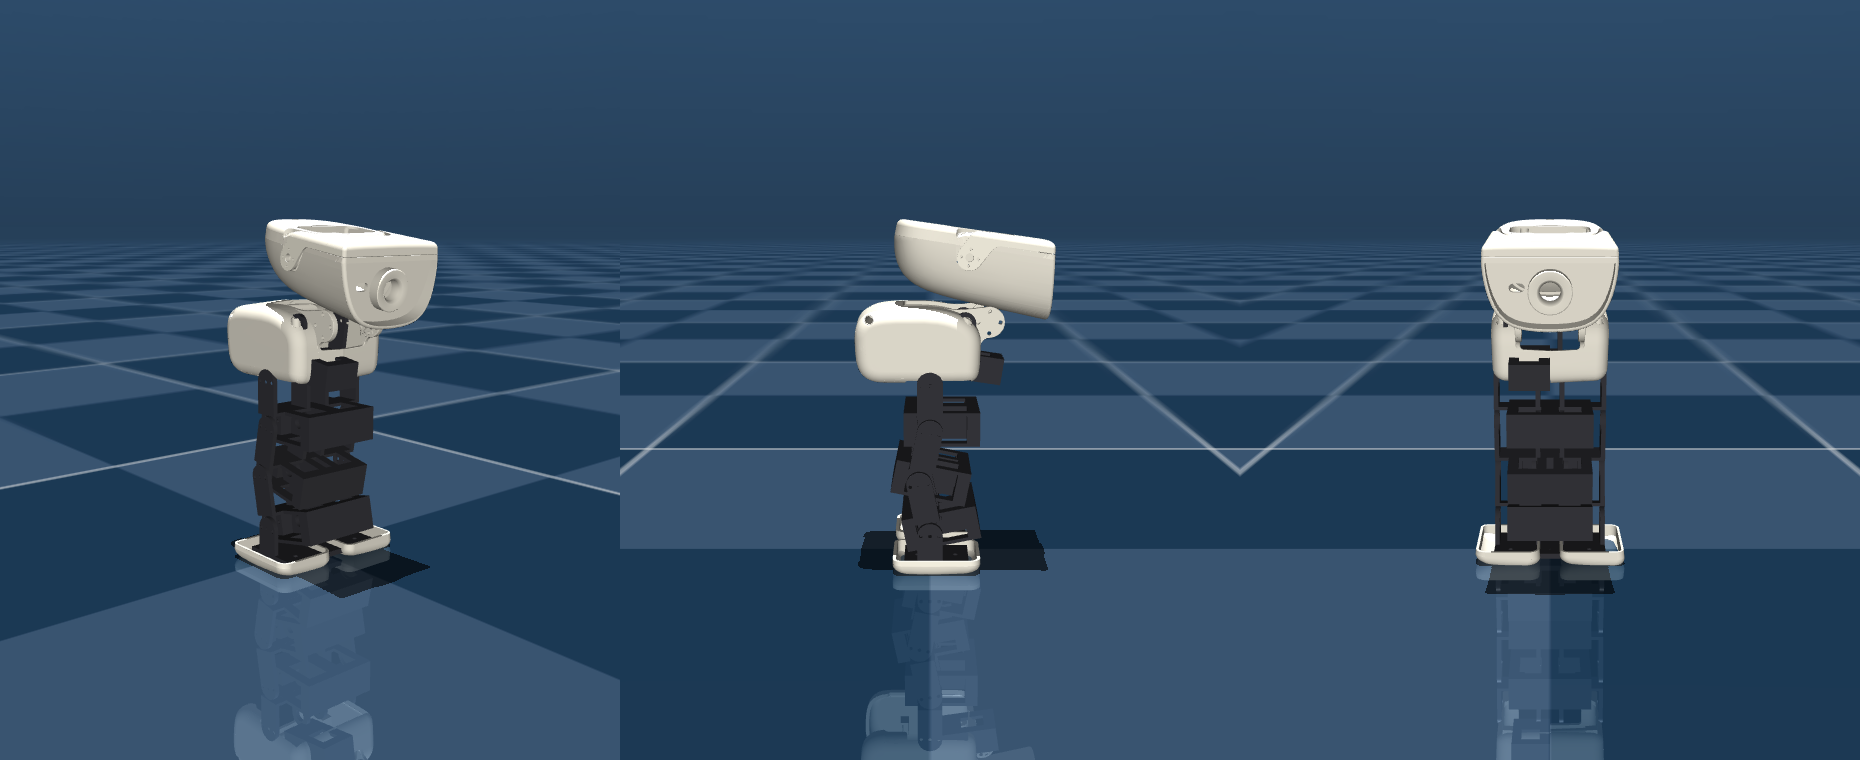
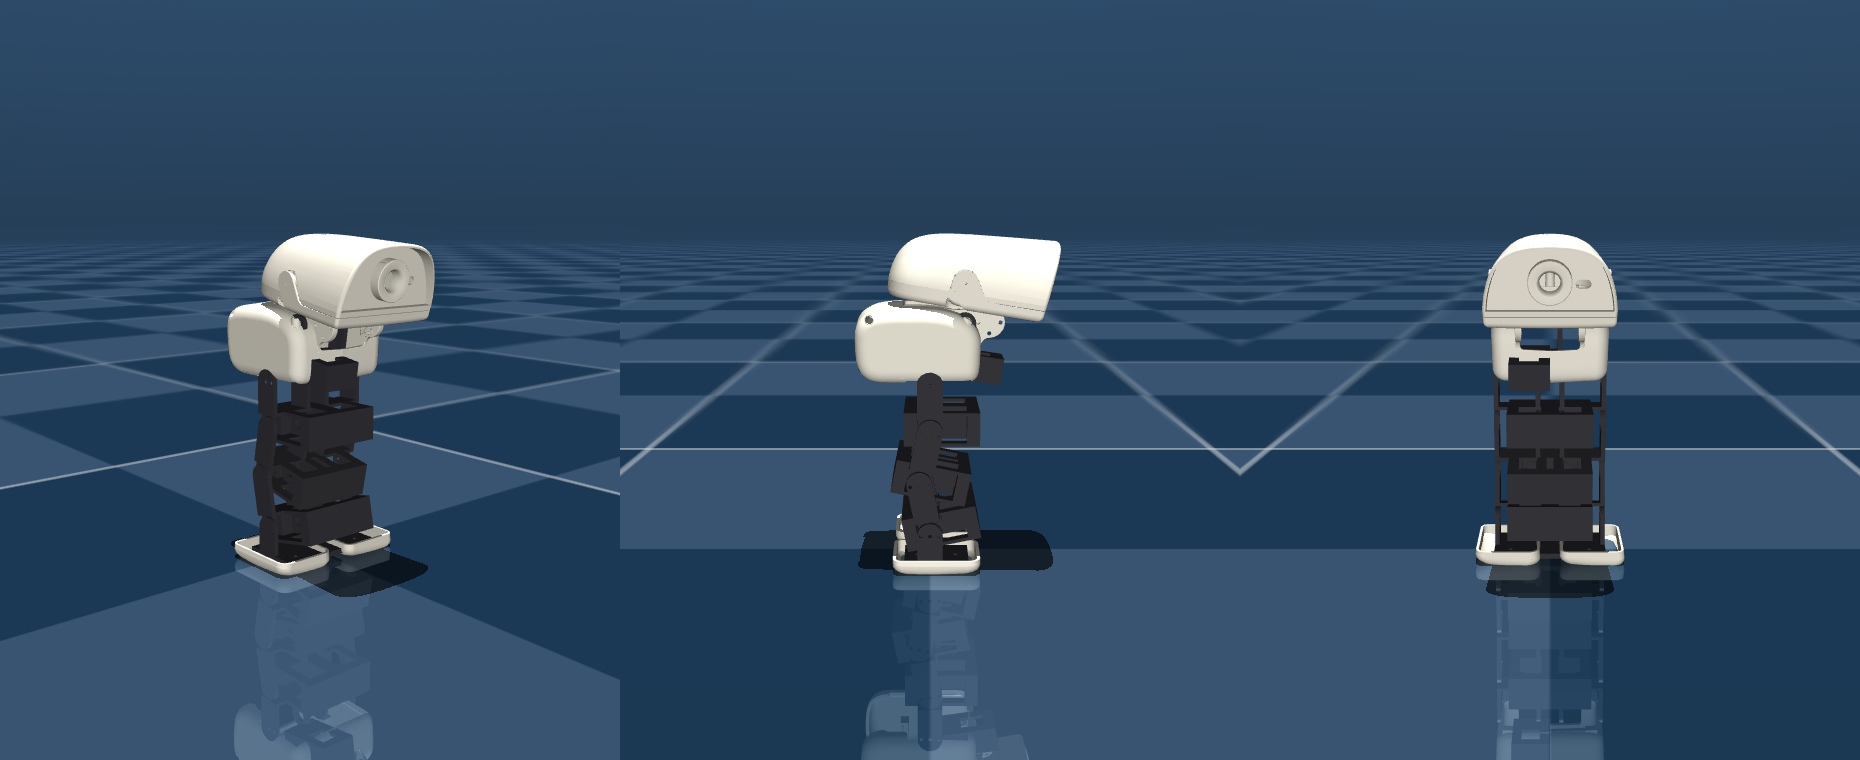
Fix the upside-down head, and the joint limits that never reached the joints
Two real defects, both found by replacing a claim with a test.

The head was upside down. It was placed with a (180, 90, 0) rotation and
"verified" by measuring the cluster's fore-aft extent: 76.1 mm, which is
MicroDuck's 123 mm head at 0.62, therefore aligned. That reasoning is wrong.
An extent along X proves the long axis is X and is perfectly happy with the
head flipped 180 degrees about that same axis. Up/down and front/back are
separate facts and need separate tests.

cosmetics.check_orientation() now tests them separately, as signed distances
between parts whose relative position is not in doubt: the top shell above
the bottom one, the bill ahead of the skull, the eyes in the upper half, the
left panel on the left. Brute-forcing all 64 axis-aligned rotations against
those predicates gives exactly one answer, (0, 270, 0) -- a plain -90 about
Y, with no X flip at all. The build now fails if it ever regresses.

The joint limits were never applied. cad/parts.py measures each printed
joint's real travel, and those numbers reached the JOINTS table and every
actuator ctrlrange -- but the four leg joints in the emitted XML still had a
hardcoded +/-1.571 from before the measurement existed. So the model let a
policy swing 90 degrees into a bracket while the actuator that drives it was
limited to 33. They are driven from one table now.

check_joints() tests the compiled model, not the source: axis direction per
[…]

diff --git a/cad/build_nanoduck.py b/cad/build_nanoduck.py
@@ -195,9 +195,14 @@ def leg(side, sign):
     roll0 = -HIP_ROLL_0 if side == "left" else HIP_ROLL_0
     x = []
     a = x.append
+    # One source of truth for the limits. These were hardcoded to +/-1.571 for a
+    # while, so the JOINTS table (and therefore every actuator ctrlrange) carried
+    # the measured mechanism travel while the joints themselves let the policy
+    # swing 90 degrees into a bracket. check_joints() catches that now.
+    rng = {n.split("_", 1)[1]: r for n, _, r, _ in JOINTS if n.startswith("left_")}
     a('      <body name="%s_hip" pos="%s">\n' % (side, m(0, sign * HIP_Y, -TRUNK[2] / 2)))
     a('        <joint name="%s_hip_roll" axis="1 0 0" range="%.3f %.3f"/>\n'
-      % (side, -0.384, 0.384))
+      % (side, *rng["hip_roll"]))
     # The hip_pitch servo rides on the roll link, at the pitch axis.
     a(COS.printed_geom("%s_hip" % side))
     a(servo_geom("%s_hip_pitch_servo" % side, "MG90S", (-6, 0, -HIP_ROLL_TO_PITCH)))
@@ -206,21 +211,21 @@ def leg(side, sign):
 
     a('        <body name="%s_thigh" pos="%s">\n' % (side, m(0, 0, -HIP_ROLL_TO_PITCH)))
     a('          <joint name="%s_hip_pitch" axis="0 1 0" range="%.3f %.3f"/>\n'
-      % (side, -1.571, 1.571))
+      % (side, *rng["hip_pitch"]))
     a(COS.printed_geom("%s_thigh" % side))
     a(servo_geom("%s_knee_servo" % side, "MG92B", (-6, 0, -THIGH)))
     a(link_geom("%s_thigh_link" % side, (12, 16, THIGH), (0, 0, -THIGH / 2), M_THIGH))
 
     a('          <body name="%s_shin" pos="%s">\n' % (side, m(0, 0, -THIGH)))
     a('            <joint name="%s_knee" axis="0 1 0" range="%.3f %.3f"/>\n'
-      % (side, -1.571, 1.571))
+      % (side, *rng["knee"]))
     a(COS.printed_geom("%s_shin" % side))
     a(servo_geom("%s_ankle_servo" % side, "MG90S", (-6, 0, -SHIN)))
     a(link_geom("%s_shin_link" % side, (10, 14, SHIN), (0, 0, -SHIN / 2), M_SHIN))
 
     a('            <body name="%s_foot" pos="%s">\n' % (side, m(0, 0, -SHIN)))
     a('              <joint name="%s_ankle" axis="0 1 0" range="%.3f %.3f"/>\n'
-      % (side, -1.571, 1.571))
+      % (side, *rng["ankle"]))
     a(COS.printed_geom("%s_foot" % side))
     a(link_geom("%s_ankle_bracket" % side, (12, 16, ANKLE_TO_SOLE),
                 (0, 0, -ANKLE_TO_SOLE / 2), M_FOOT_MOUNT))
@@ -347,6 +352,77 @@ def trunk_z() -> float:
     return ANKLE_TO_SOLE + FOOT[2] + drop + HIP_ROLL_TO_PITCH + TRUNK[2] / 2
 
 
+def check_joints(scene_path: str) -> bool:
+    """Are the joints the right way round?
+
+    Cheap to get wrong and invisible in a render: an axis that points the other
+    way, a home pose outside the travel the mechanism has, a left leg that is
+    not the mirror of the right, an actuator whose ctrlrange disagrees with the
+    joint it drives.  Each of these produces a model that loads, simulates, and
+    trains a policy for a robot that does not exist.
+
+    Tested against the compiled model, not the source, so a typo in the emitted
+    XML cannot slip through.
+    """
+    import mujoco
+    import numpy as np
+
+    m = mujoco.MjModel.from_xml_path(scene_path)
+    d = mujoco.MjData(m)
+    mujoco.mj_resetDataKeyframe(m, d, 0)
+    mujoco.mj_forward(m, d)
+
+    want_axis = {"hip_roll": (1, 0, 0), "hip_pitch": (0, 1, 0), "knee": (0, 1, 0),
+                 "ankle": (0, 1, 0), "neck_pitch": (0, 1, 0), "head_yaw": (0, 0, 1)}
+    print("\njoint sanity:")
+    ok = True
+    for name, _, (lo, hi), home in JOINTS:
+        jid = mujoco.mj_name2id(m, mujoco.mjtObj.mjOBJ_JOINT, name)
+        aid = mujoco.mj_name2id(m, mujoco.mjtObj.mjOBJ_ACTUATOR, name)
+        axis = tuple(int(round(v)) for v in m.jnt_axis[jid])
+        key = name.split("_", 1)[1] if name.startswith(("left_", "right_")) else name
+        jr = m.jnt_range[jid]
+        cr = m.actuator_ctrlrange[aid]
+        q = float(d.qpos[m.jnt_qposadr[jid]])
+        bad = []
+        if axis != want_axis[key]:
+            bad.append("axis %s != %s" % (axis, want_axis[key]))
+        if not (jr[0] - 1e-6 <= home <= jr[1] + 1e-6):
+            bad.append("home %.3f outside range" % home)
+        if abs(q - home) > 1e-6:
+            bad.append("keyframe %.3f != home %.3f" % (q, home))
+        if not np.allclose(cr, jr, atol=1e-6):
+            bad.append("ctrlrange != joint range")
+        margin = min(home - jr[0], jr[1] - home)
+        ok &= not bad
+        print("   %-16s axis %-9s range %+6.2f..%+6.2f  home %+6.3f  margin %+5.2f rad  %s"
+              % (name, str(axis), jr[0], jr[1], home, margin,
+                 "ok" if not bad else "BAD: " + "; ".join(bad)))
+
+    # Left and right must be mirror images across Y, not copies shifted sideways.
+    for part in ("hip", "thigh", "shin", "foot"):
+        l = mujoco.mj_name2id(m, mujoco.mjtObj.mjOBJ_BODY, "left_" + part)
+        r = mujoco.mj_name2id(m, mujoco.mjtObj.mjOBJ_BODY, "right_" + part)
+        pl, pr = d.xpos[l], d.xpos[r]
+        good = abs(pl[0] - pr[0]) < 1e-6 and abs(pl[2] - pr[2]) < 1e-6 \
+            and abs(pl[1] + pr[1]) < 1e-6
+        ok &= good
+        print("   %-16s left %s  right %s  %s"
+              % (part + " mirror", np.round(1000 * pl, 1), np.round(1000 * pr, 1),
+                 "ok" if good else "NOT MIRRORED"))
+
+    # The home crouch is supposed to put each ankle directly under its hip.
+    for side in ("left", "right"):
+        hip = d.xpos[mujoco.mj_name2id(m, mujoco.mjtObj.mjOBJ_BODY, side + "_thigh")]
+        ank = d.xpos[mujoco.mj_name2id(m, mujoco.mjtObj.mjOBJ_BODY, side + "_foot")]
+        dx = 1000 * (ank[0] - hip[0])
+        good = abs(dx) < 0.5
+        ok &= good
+        print("   %-16s ankle is %+.2f mm fore-aft of the hip   %s"
+              % (side + " crouch", dx, "ok" if good else "KNEE SIGN WRONG"))
+    return ok
+
+
 def check_static_balance(scene_path: str) -> None:
     """Is the centre of mass inside the support polygon in the home pose?
 
@@ -434,7 +510,14 @@ def main() -> None:
     print("\nhome-pose trunk height: %.1f mm" % trunk_z())
     print("leg (thigh + shin):     %.1f mm" % (THIGH + SHIN))
     print("DOF:                    %d" % len(JOINTS))
-    check_static_balance(os.path.join(OUT, "scene_nanoduck.xml"))
+    scene = os.path.join(OUT, "scene_nanoduck.xml")
+    print()
+    print("cosmetic orientation:")
+    ok = COS.check_orientation()
+    ok &= check_joints(scene)
+    check_static_balance(scene)
+    if not ok:
+        raise SystemExit("\nCHECKS FAILED -- the model is wrong, do not train on it.")
 
 
 if __name__ == "__main__":

diff --git a/cad/cosmetics.py b/cad/cosmetics.py
@@ -46,13 +46,16 @@ MJCF = os.path.join(SRC, "robot_walk.xml")
 # `python cosmetics.py` prints the resulting extents so it can be checked
 # rather than believed.
 GROUPS = {
-    # head: 90 deg about Y puts the beak axis along +X. Checked by extent, not
-    # by eye -- the cluster measures 76.1 x 56.9 x 36.8 mm, and 76.1 is the
-    # 123 mm MicroDuck head at 0.62, so it is exactly fore-aft. The nose-up look
-    # in a render is MicroDuck's own wedge-shaped skull, not a misalignment;
-    # trying 55 and 135 deg by eye made it worse in both directions.
+    # head: solved, not chosen. See check_orientation() -- this is the only
+    # axis-aligned rotation that puts the top shell above the bottom one, the
+    # bill forward, and the long axis fore-aft.
+    #
+    # It was (180, 90, 0) for a while, which passed a test on the cluster's
+    # fore-aft EXTENT and shipped the duck upside down. Extent along X says the
+    # long axis is X; it says nothing whatever about a 180 degree flip around
+    # it. Up/down and front/back are separate facts and need separate tests.
     "head": (0.62, ["bottom_head_shell", "top_head_shell", "face_part", "jaw", "noenoeil"],
-             (180.0, 90.0, 0.0)),
+             (0.0, 270.0, 0.0)),
     "trunk": (0.85, ["left_shell", "right_shell"], (0.0, 0.0, 0.0)),
     "sole_left": (0.75, ["sole_left"], (90.0, 0.0, 0.0)),
     "sole_right": (0.75, ["sole_right"], (90.0, 0.0, 0.0)),
@@ -162,11 +165,64 @@ def mesh_assets():
     return "".join(out)
 
 
+def posed_mesh(group, name):
+    """One mesh of a group, in NanoDuck's body axes."""
+    scale, _, _ = GROUPS[group]
+    pos, quat = upstream_transforms()[name]
+    m = load_stl_mm(name)
+    m.apply_scale(scale)
+    m.apply_transform(quat_matrix(quat))
+    m.apply_translation(pos * 1000.0 * scale)
+    m.apply_transform(extra_matrix(group))
+    return m
+
+
+def check_orientation(verbose=True):
+    """Is the duck the right way up and facing forward?
+
+    A bounding-box extent cannot answer this.  "76.1 mm fore-aft" proves the
+    long axis is X and is perfectly happy with the head rotated 180 degrees
+    about that axis -- which is exactly how a flipped head shipped once.
+
+    So test the facts separately, against parts whose relative position is not
+    in doubt: the top shell is above the bottom one, the bill is ahead of the
+    skull, the eyes are in the upper half, and the left panel is to the left.
+    Each is a signed distance between two centroids; each must be positive.
+    """
+    checks = []
+
+    def cen(group, name):
+        return posed_mesh(group, name).centroid
+
+    h = lambda n: cen("head", n)
+    checks += [
+        ("head is not upside down", h("top_head_shell")[2] - h("bottom_head_shell")[2]),
+        ("bill points forward", h("jaw")[0] - h("bottom_head_shell")[0]),
+        ("eyes are in the upper half", h("noenoeil")[2] - h("bottom_head_shell")[2]),
+        ("left body panel is on the left",
+         cen("trunk", "left_shell")[1] - cen("trunk", "right_shell")[1]),
+    ]
+    lo, hi = cluster_bounds("head")
+    checks.append(("head is longest fore-aft",
+                   (hi - lo)[0] - max((hi - lo)[1], (hi - lo)[2])))
+
+    ok = True
+    for label, value in checks:
+        good = value > 0.0
+        ok &= good
+        if verbose:
+            print("   %-32s %+7.1f mm   %s" % (label, value, "ok" if good else "WRONG"))
+    return ok
+
+
 if __name__ == "__main__":
     for g in GROUPS:
         lo, hi = cluster_bounds(g)
         print("%-12s bbox %6.1f x %6.1f x %6.1f mm   centre %s"
               % (g, *(hi - lo), np.round((lo + hi) / 2, 1)))
+    print()
+    print("orientation:")
+    raise SystemExit(0 if check_orientation() else 1)
 
 
 # --- the printed structure, as visual meshes ---------------------------------
